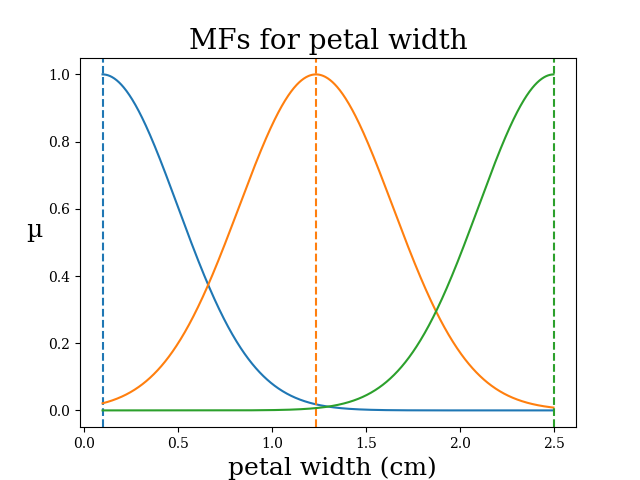
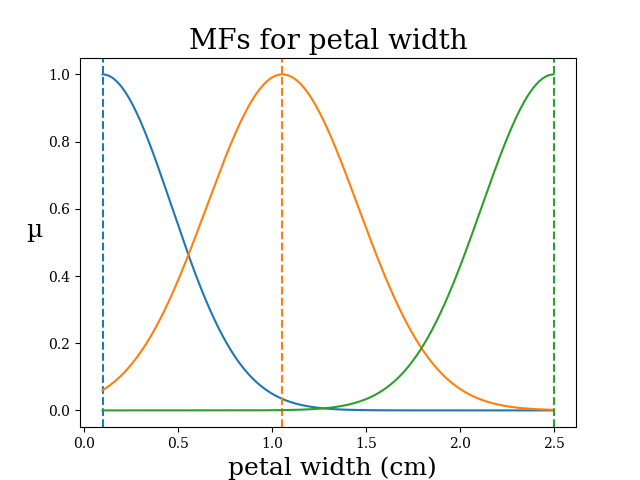
main had accuracy of 94.7, documentation said 97.3%
- backtracking commits did not help,
- re-loading the tuned weights that have been used for documentation yields 97.3% again
- why are weights being tuned differently now?

diff --git a/model_pkg/Model.py b/model_pkg/Model.py
@@ -68,13 +68,16 @@ class Model():
         self.classifier.arc = self.arc
         return self.classifier.get_class_accuracy(self.data.inputs, self.data.targets, self.data.df_name)
 
-
-
-    def trainMyArc(self, save=False):
-        # get feature_names names 
+    def load_MyArc(self):   
+        # load data for building my arc
+        self.data.load_data_for_building()
+        self.builder.arc = self.arc
         load_weights(self.arc.FuzzificationLayer, "centers", self.data.df_name)
         load_weights(self.arc.FuzzificationLayer, "widths", self.data.df_name)
         load_weights(self.arc.RuleConsequentLayer, "class_weights", self.data.df_name)
+
+    def trainMyArc(self, save=False):
+        # get feature_names names 
         self.data.load_data_for_training() # doubled ! hc
         self.trainer.builder = self.builder
         MFs.visuMFs(self.arc.FuzzificationLayer, df_name= self.data.df_name, dir="before_training", max_vals=self.data.feature_maxs, min_vals= self.data.feature_mins, mf_names=self.arc.fuzzy_labels )

diff --git a/main.py b/main.py
@@ -44,7 +44,8 @@ def main():
                      MyArcTrainer(n_epochs=n_epochs, learning_rate=learning_rate),
                      Builder(),
                      Classifier())
-    MyModel.build_MyArc() 
+   # MyModel.build_MyArc() 
+    MyModel.load_MyArc()
     MyModel.trainMyArc()
     print(MyModel.class_acc()) 
 
